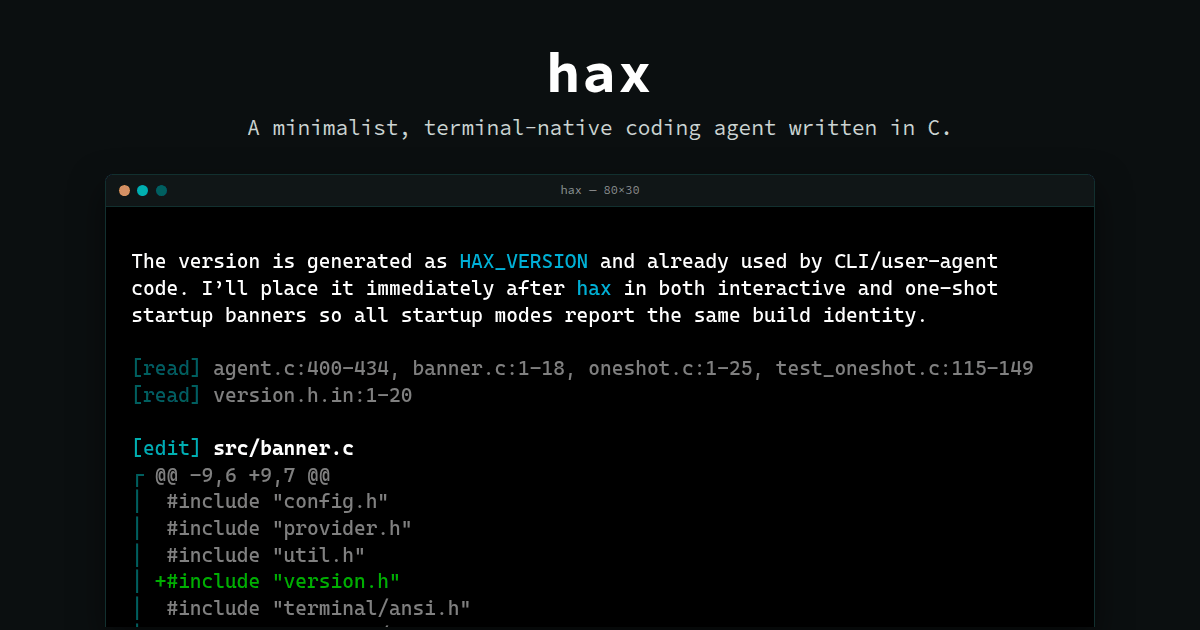
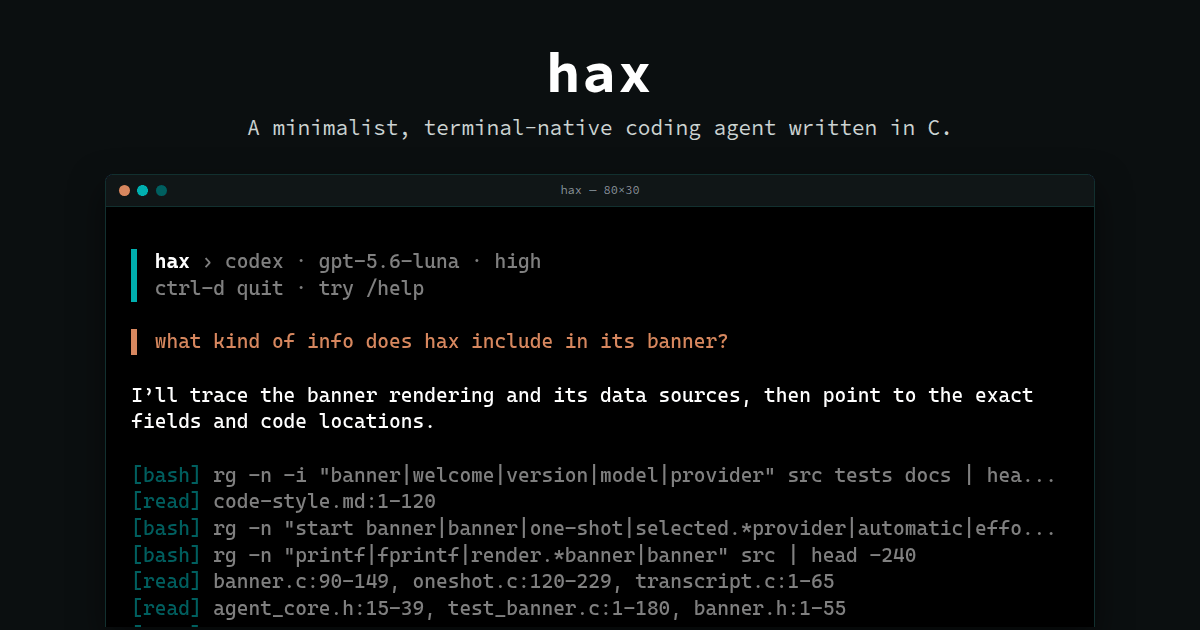
Add standalone demo assets for external listings
Directory listings take a URL rather than embedding a player, so demo.gif and
demo-still.png carry the recording's first turn alone: one question, answered, in
32 seconds. tools/make-gif.py renders both with agg, pinned to the page's typeface
and to a braille fallback for the spinner, which otherwise shifts with whatever
fonts happen to be installed.

The link preview moves to an early frame for the same reason the still uses one: a
card is met cold, with no page around it to say what this is, so it wants the banner
in shot. og:image:alt follows the new frame, and make-poster.sh now defaults per
mode so the choice survives a plain regeneration.

Changed region(s): [[0.0925, 0.3921, 0.8633, 0.9952], [0.7092, 0.7238, 0.8017, 0.7841], [0.8325, 0.754, 0.8633, 0.7841]]

diff --git a/index.html b/index.html
@@ -20,7 +20,7 @@
 <meta property="og:image:width" content="1200">
 <meta property="og:image:height" content="630">
 <meta property="og:image:alt"
-      content="hax in a terminal, editing src/banner.c to add the build version to the banner">
+      content="hax in a terminal: its startup banner, a question about what that banner reports, and the searches and file reads it runs to answer">
 <meta name="twitter:card" content="summary_large_image">
 <link rel="icon" type="image/svg+xml" href="favicon.svg">
 <link rel="preload" href="fonts/source-code-pro-latin.woff2" as="font" type="font/woff2"

diff --git a/tools/make-gif.py b/tools/make-gif.py
@@ -1,0 +1,121 @@
+#!/usr/bin/env python3
+"""Render the standalone assets out of demo.cast: an animation and a single still.
+
+    tools/make-gif.py            -> demo.gif and demo-still.png
+    tools/make-gif.py --still    -> demo-still.png only
+
+These are what external listings ask for, since they take a URL rather than embedding the
+player. The recording holds two turns - a question answered in 34s, then a four-and-a-half
+minute implementation session - and only the first is used: the whole arc, at a length
+someone will actually watch.
+
+The still holds a different frame from demo-poster.png on purpose. The poster is mid-session
+because the page plays from the start and the picture should change on click; a listing has
+nothing to click, so it wants the banner in shot.
+
+Needs agg on PATH, Pillow for the still, and Source Code Pro installed for the typeface.
+"""
+
+import argparse
+import json
+import shutil
+import subprocess
+import sys
+import tempfile
+from pathlib import Path
+from typing import Final
+
+try:
+    from PIL import Image
+except ImportError:
+    sys.exit("make-gif: Pillow needed to write the still")
+
+ROOT: Final = Path(__file__).resolve().parent.parent
+
+# End of the first turn. The prompt comes back empty at 33.7s and the next question starts
+# at 35.5s, so anything in between cuts clean.
+CUT: Final = 34.9
+
+# Held frame for the still: the last moment holding both the banner and a full screen of
+# output, a tenth of a second before the top line scrolls away. tools/make-poster.sh renders
+# the link preview card at the same moment, for the same reason.
+STILL_AT: Final = 32.2
+
+# The page's typeface, so these agree with the poster and the card. Source Code Pro has no
+# braille, so the spinner falls through to the second family; both are named because left to
+# itself agg picks from seven defaults and whatever else is installed, which is enough to
+# change the rendered spinner when an unrelated font package lands on the machine.
+FONT: Final = "Source Code Pro,DejaVu Sans"
+
+
+def trim(src: Path, dst: Path, cut: float) -> float:
+    """Copy the events up to `cut` seconds, keeping the header. Returns the kept duration.
+
+    agg's --select runs on the timeline *after* --speed and --idle-time-limit, so the second
+    of the recording a number refers to moves once those are set. Trimming to a prefix first
+    keeps the cut expressed in the recording's own seconds; a prefix also needs no replay,
+    since the screen at the cut is whatever the kept events already drew.
+    """
+    at = 0.0
+    kept: list[str] = []
+    with src.open() as f:
+        header = f.readline().rstrip("\n")
+        for line in f:
+            line = line.rstrip("\n")
+            if not line.strip():
+                continue
+            # v3 stores intervals between events, not absolute times, so the clock is a
+            # running sum rather than a field to read.
+            interval: float = json.loads(line)[0]
+            if at + interval > cut:
+                break
+            at += interval
+            kept.append(line)
+    dst.write_text(header + "\n" + "\n".join(kept) + "\n")
+    print(f"make-gif: kept {len(kept)} events, {at:.1f}s")
+    return at
+
+
+def agg(*args: str | float | Path) -> None:
+    subprocess.run(["agg", "--quiet", *(str(a) for a in args)], check=True)
+
+
+def main() -> None:
+    parser = argparse.ArgumentParser(description="Render demo.gif and demo-still.png.")
+    parser.add_argument("--still", action="store_true", help="write the still only")
+    args = parser.parse_args()
+
+    if shutil.which("agg") is None:
+        sys.exit("make-gif: no agg on PATH (yay -S asciinema-agg-bin)")
+
+    with tempfile.TemporaryDirectory() as tmpdir:
+        tmp = Path(tmpdir)
+        trimmed = tmp / "turn1.cast"
+        trim(ROOT / "demo.cast", trimmed, CUT)
+
+        if not args.still:
+            # 1.2x keeps the typing from dragging without looking hurried. The idle cap is
+            # well under agg's default of 5s because the longest pause here is only ~3s.
+            agg("--text-font-family", FONT, "--font-size", 20, "--speed", 1.2,
+                "--idle-time-limit", 1.5, "--last-frame-duration", 4,
+                trimmed, ROOT / "demo.gif")
+            print("make-gif: wrote demo.gif")
+
+        # One frame, so speed is irrelevant and the idle cap is raised past any gap in the
+        # recording purely so --select lands on the second it names.
+        still = tmp / "still.gif"
+        agg("--text-font-family", FONT, "--font-size", 28, "--idle-time-limit", 1000,
+            "--select", STILL_AT, trimmed, still)
+
+        # agg only writes GIF, so the still arrives as a single-frame one, capped at the 256
+        # colours the poster is quantized to anyway. The enums are spelled out because Pillow
+        # builds its module-level aliases with setattr, which no type checker can see.
+        frame = Image.open(still).convert("RGB")
+        quantized = frame.quantize(
+            colors=256, method=Image.Quantize.MEDIANCUT, dither=Image.Dither.NONE)
+        quantized.save(ROOT / "demo-still.png", optimize=True)
+        print(f"make-gif: wrote demo-still.png at t={STILL_AT}s")
+
+
+if __name__ == "__main__":
+    main()

diff --git a/README.md b/README.md
@@ -48,19 +48,32 @@ of `tools/make-poster.sh` — then re-running that script.
 want roughly 1.91:1 and a terminal is 1.17:1, so it is composed — wordmark, tagline, and the
 screen running off the bottom edge — rather than cropped, and its terminal is set larger
 because a card is shown at about half size in a feed. Twitter reads the `og:*` tags, so
-`index.html` only sets the card type separately.
+`index.html` only sets the card type separately. Its frame is an early one, unlike the
+poster's: a preview is met cold, with no page around it to say what this is, so it wants the
+banner in shot. `og:image:alt` describes that frame.
 
-To replace the demo, record at 80x30 and regenerate both images:
+`demo.gif` and `demo-still.png` are the odd ones out — the page never loads them. They exist
+for external listings, which take a URL rather than embedding a player, and hold the
+recording's first turn alone: one question, answered, in 32 seconds. agg draws them in the
+page's typeface, so they sit beside the poster and the card without looking like a different
+program.
+
+To replace the demo, record at 80x30 and regenerate the images:
 
 ```sh
 asciinema rec --cols 80 --rows 30 demo.cast
-tools/make-poster.sh 75          # seconds into the recording to freeze
-tools/make-poster.sh --card 75
+tools/make-poster.sh          # poster, freezes 75s in
+tools/make-poster.sh --card   # link preview, freezes 32.2s in
+tools/make-gif.py             # demo.gif and demo-still.png
 ```
 
+Those frozen frames suit this recording specifically, so a new one needs new numbers: pass
+seconds to `make-poster.sh`, or edit the constants at the top of `make-gif.py`.
+
 `make-poster.sh` drives the real player headlessly, in the same font and geometry the page
-uses, so swapping the poster for the player moves nothing. The frame it captures is chosen
-to show hax mid-task; playback still starts at the beginning of the recording, so the
-picture changes on click even though the layout does not. It needs chromium and python3.
-If the new recording is not 80x30, update the sizes near the top of the script and the
-`aspect-ratio` on `.demo` in `style.css` to match.
+uses, so swapping the poster for the player moves nothing. The poster's frame is chosen to
+show hax mid-task; playback still starts at the beginning of the recording, so the picture
+changes on click even though the layout does not. It needs chromium and python3;
+`make-gif.py` needs agg, Pillow, and the Source Code Pro and DejaVu fonts. If the new recording is not 80x30,
+update the sizes near the top of `make-poster.sh` and the `aspect-ratio` on `.demo` in
+`style.css` to match.
